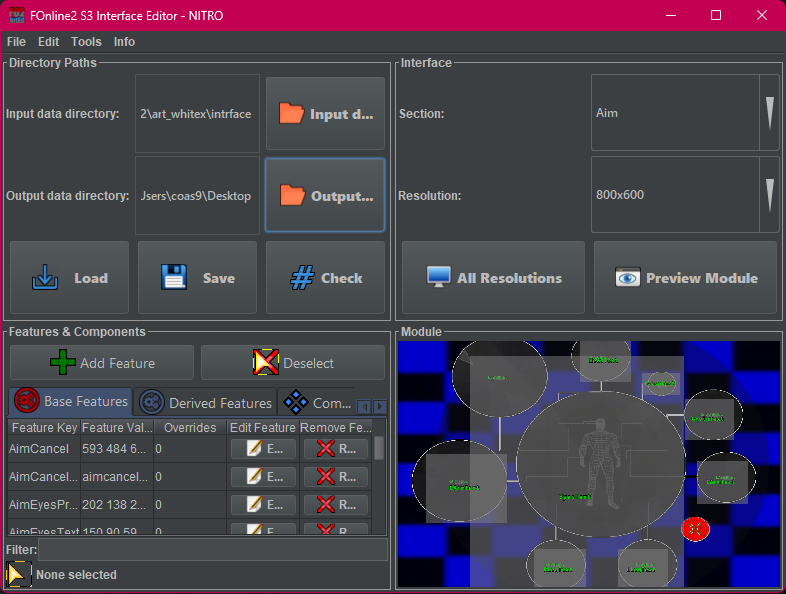
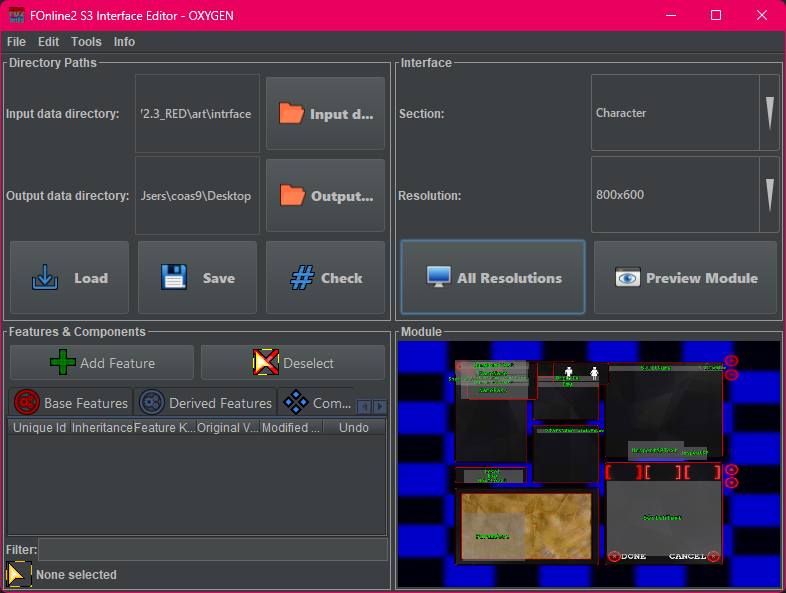
Build v2.0 OXYGEN. Add Flat Laf themes. Fix rendering glitches. Splash.

diff --git a/src/rs/alexanderstojanovich/fo2ie/main/GUI.java b/src/rs/alexanderstojanovich/fo2ie/main/GUI.java
@@ -16,6 +16,10 @@
  */
 package rs.alexanderstojanovich.fo2ie.main;
 
+import com.bulenkov.darcula.DarculaLaf;
+import com.formdev.flatlaf.FlatDarkLaf;
+import com.formdev.flatlaf.FlatLaf;
+import com.formdev.flatlaf.FlatLightLaf;
 import com.jogamp.newt.opengl.GLWindow;
 import com.jogamp.opengl.GLCapabilities;
 import com.jogamp.opengl.GLProfile;
@@ -53,6 +57,7 @@ import javax.swing.UIManager;
 import javax.swing.event.DocumentEvent;
 import javax.swing.event.DocumentListener;
 import javax.swing.filechooser.FileNameExtensionFilter;
+import javax.swing.plaf.metal.MetalLookAndFeel;
 import javax.swing.table.DefaultTableModel;
 import javax.swing.table.TableColumn;
 import javax.swing.table.TableRowSorter;
@@ -1045,7 +1050,7 @@ public class GUI extends javax.swing.JFrame {
         URL icon_url = getClass().getResource(RESOURCES_DIR + LICENSE_LOGO_FILE_NAME);
         if (icon_url != null) {
             StringBuilder sb = new StringBuilder();
-            sb.append("VERSION v2.0 - OXYGEN (PUBLIC BUILD reviewed on 2023-12-26 at 13:45).\n");
+            sb.append("VERSION v2.0 - OXYGEN (PUBLIC BUILD reviewed on 2025-01-07 at 11:07).\n");
             sb.append("This software is free software, \n");
             sb.append("licensed under GNU General Public License (GPL).\n");
             sb.append("\n");
@@ -2265,6 +2270,11 @@ public class GUI extends javax.swing.JFrame {
      * @param args the command line arguments
      */
     public static void main(String args[]) {
+        // avoid rendering glitches
+        System.setProperty("sun.java2d.opengl", "true");
+        System.setProperty("sun.java2d.d3d", "false");
+        System.setProperty("sun.java2d.noddraw", "true");
+        
         FO2IELogger.init(args.length > 0 && args[0].equals("-debug"));
         cfg.readConfigFile();
 
@@ -2287,11 +2297,24 @@ public class GUI extends javax.swing.JFrame {
         /* If Nimbus (introduced in Java SE 6) is not available, stay with the default look and feel.
          * For details see http://download.oracle.com/javase/tutorial/uiswing/lookandfeel/plaf.html 
          */
-        try {
-            UIManager.setLookAndFeel("com.bulenkov.darcula.DarculaLaf");
-        } catch (ClassNotFoundException | InstantiationException | IllegalAccessException | javax.swing.UnsupportedLookAndFeelException ex) {
-            FO2IELogger.reportError(ex.getMessage(), ex);
+        // Set Look and feel for Swing GUI App
+        String guiTheme = cfg.getTheme();
+        switch (guiTheme) {
+            case "light":
+                FlatLightLaf.setup();
+                break;
+            case "dark":
+                FlatDarkLaf.setup();
+                break;
+            case "default":
+            case "metal":
+                FlatDarkLaf.setup(new MetalLookAndFeel());
+                break;
+            case "darcula":
+                FlatLaf.setup(new DarculaLaf());
+                break;
         }
+        
         //</editor-fold>
         /* Create and display the form */
         SwingUtilities.invokeLater(new Runnable() {

diff --git a/src/rs/alexanderstojanovich/fo2ie/intrface/Configuration.java b/src/rs/alexanderstojanovich/fo2ie/intrface/Configuration.java
@@ -45,7 +45,8 @@ public class Configuration {
     private Color hintCol = Color.ORANGE;
     private Color canvasCol = Color.BLUE;
     private int textureSize = 1024;
-
+    private String theme = "darcula";
+    
     private boolean keepAspectRatio = false;
     private String defaultIni = "default.ini";
 
@@ -141,6 +142,9 @@ public class Configuration {
                             case "IgnoreErrors":
                                 ignoreErrors = Boolean.parseBoolean(words[1]);
                                 break;
+                            case "Theme":
+                                theme = words[1].toLowerCase();
+                                break;
                         }
                     }
                 }
@@ -185,6 +189,8 @@ public class Configuration {
             pw.println("AnimationTicks = " + animationTicks);
             pw.println("KeepAspectRatio = " + keepAspectRatio);
             pw.println("IgnoreErrors = " + ignoreErrors);
+            pw.println();
+            pw.println("Theme = " + theme);
         } catch (FileNotFoundException ex) {
             FO2IELogger.reportError(ex.getMessage(), ex);
         } finally {
@@ -295,4 +301,8 @@ public class Configuration {
         return canvasCol;
     }
 
+    public String getTheme() {
+        return theme;
+    }
+    
 }

diff --git a/src/rs/alexanderstojanovich/fo2ie/main/GUISplashScreen.java b/src/rs/alexanderstojanovich/fo2ie/main/GUISplashScreen.java
@@ -38,7 +38,7 @@ public class GUISplashScreen extends JWindow implements Runnable {
     // progress bar (the progress is dependant on the GUI initialization progress)
     private final JProgressBar progressBar = new JProgressBar(0, 100);
 
-    public static final Color COLOR = new Color(74, 168, 255);
+    public static final Color COLOR = new Color(108, 36, 90);
 
     //--------------------------------------------------------------------------
     // A - CONSTRUCTORS 
